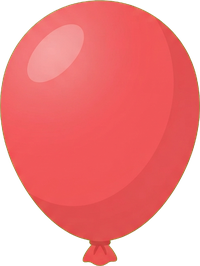
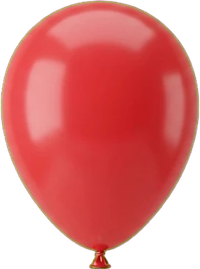
Neuer 3D-Ballon aus Gemini (Schnur abgeschnitten, Seitenverhältnis neu gemessen)
Claude-Session: https://claude.ai/code/session_018yCfLPpgwcBfHRdXPLjdDA

diff --git a/src/spiel/ballonform.ts b/src/spiel/ballonform.ts
@@ -22,7 +22,7 @@ export const KNOTEN = 8;
  * Oberkante bis zur Knotenspitze. Gemessen von scripts/bilder-freistellen.py.
  * ⚠ Neues Bild → neu messen, sonst wird der Ballon verzerrt gezeichnet.
  */
-export const BALLON_BILD_SEITEN = 0.7527;
+export const BALLON_BILD_SEITEN = 0.7446;
 
 export type Ballonform = {
   /** Drehung im Uhrzeigersinn (rad). Positiv = Knoten schwingt nach links. */

diff --git a/scripts/bilder-freistellen.py b/scripts/bilder-freistellen.py
@@ -72,6 +72,12 @@ def main() -> None:
     ZIEL.mkdir(parents=True, exist_ok=True)
 
     ballon = zuschneiden(freistellen(Image.open(QUELLEN / 'ballon.jpg'), 'gruen'))
+    # Das Bild vom 23.11.2026 bringt eine Schnur mit; die zeichnet das Spiel
+    # selbst (sie schwingt mit). Abgeschnitten wird ab der untersten Zeile, die
+    # noch breiter als 4 % des Ballons ist — darunter ist nur noch Schnur.
+    breite = (np.asarray(ballon.getchannel('A')) > 128).sum(axis=1)
+    unten = max(i for i, b in enumerate(breite) if b > 0.04 * breite.max())
+    ballon = zuschneiden(ballon.crop((0, 0, ballon.width, unten + 1)))
     auf_breite(ballon, 200).save(ZIEL / 'ballon.png', optimize=True)
     print('ballon', ballon.size, 'Seitenverhaeltnis', round(ballon.width / ballon.height, 4))
 
